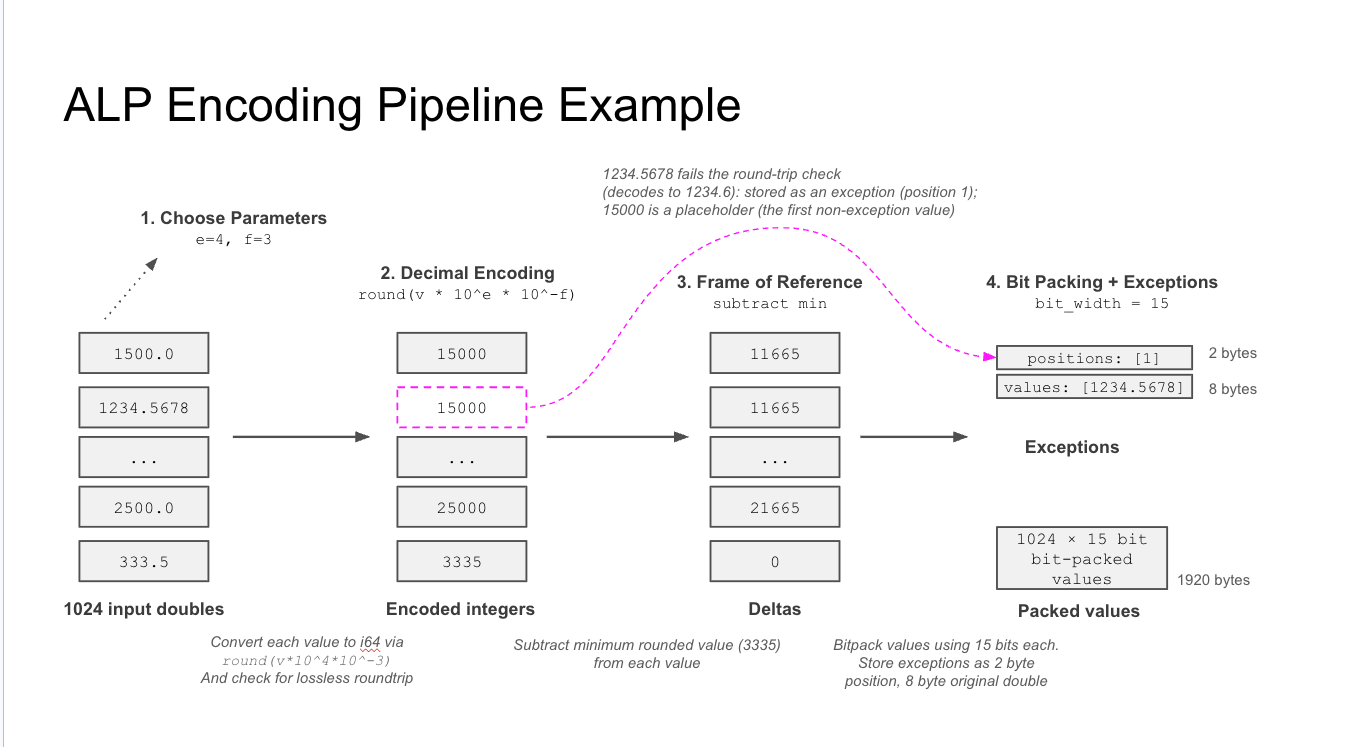
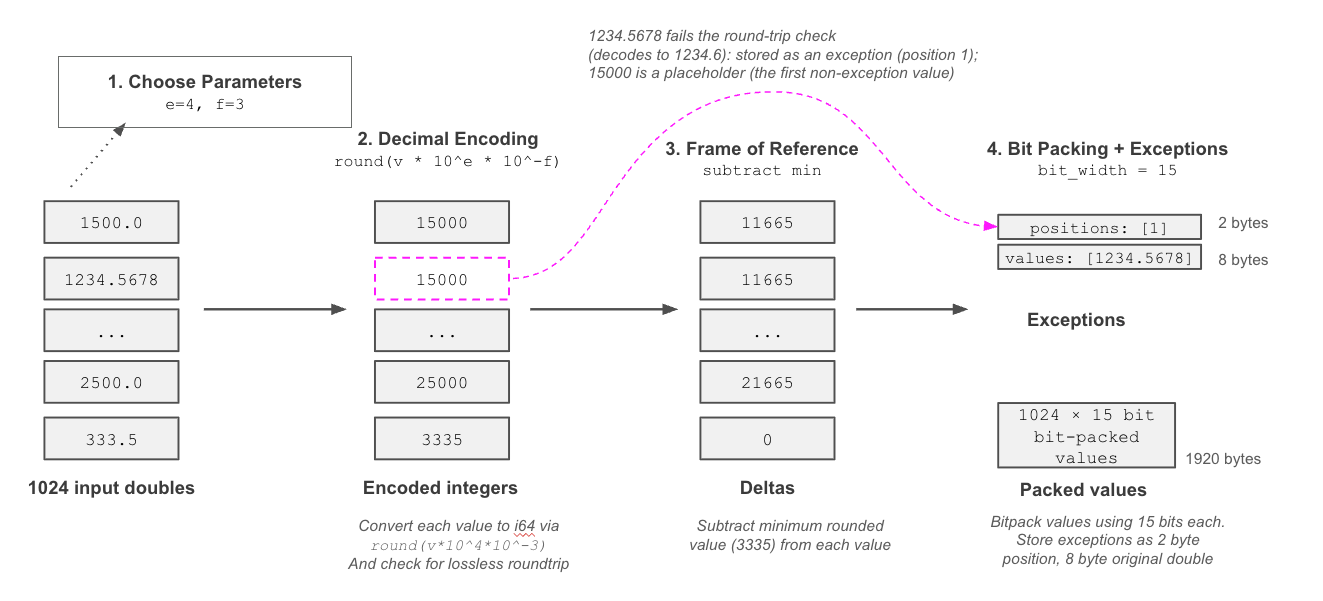
Add more encoding/decoding diagrams

diff --git a/content/en/blog/features/alp_encoding.md b/content/en/blog/features/alp_encoding.md
@@ -1,5 +1,5 @@
 ---
-title: "ALP lightweight floating-point encoding in Apache Parquet"
+title: "ALP: Adaptive Light-weight Floating-point Encoding in Apache Parquet"
 date: 2026-08-14
 description: "Fast, random access, GPU and SIMD-friendly compression and decompression; similar in size to ZSTD"
 author: "[Kosta Tarasov](https://github.com/sdf-jkl), [Andrew Lamb](https://github.com/alamb)"
@@ -298,42 +298,20 @@ The way that ALP encodes data is:
 
 <!-- needs some prose -->
 
+<!-- Diagrams source: https://docs.google.com/presentation/d/1NeYAGKV2wZZMSme5rVgUGGMkfOTEnxw8oCDxid5UouM --> 
 ![ALP encoding pipeline steps](/blog/alp/alp_encoding_pipeline.png)
 
+<!-- Diagrams source: https://docs.google.com/presentation/d/1NeYAGKV2wZZMSme5rVgUGGMkfOTEnxw8oCDxid5UouM --> 
 ![ALP encoding pipeline example](/blog/alp/alp_encoding_example.png)
 
 ### ALP Decoding pipeline in Parquet
 
-<!-- Andrew's chart :rocket: -->
+<!-- Diagrams source: https://docs.google.com/presentation/d/1NeYAGKV2wZZMSme5rVgUGGMkfOTEnxw8oCDxid5UouM --> 
+![ALP decoding pipeline steps](/blog/alp/alp_decoding_pipeline.png)
 
-                    Input: Serialized vector bytes
-                              |
-                              v
-    +----------------------------------------------------------+
-    |  1. BIT UNPACKING                                        |
-    |     Unpack num_elements values at bit_width bits each    |
-    +----------------------------------------------------------+
-                              |
-                              v
-    +----------------------------------------------------------+
-    |  2. REVERSE FOR                                          |
-    |     encoded[i] = delta[i] + frame_of_reference           |
-    +----------------------------------------------------------+
-                              |
-                              v
-    +----------------------------------------------------------+
-    |  3. DECIMAL DECODING                                     |
-    |     value[i] = encoded[i] * 10^factor * 10^(-exponent)   |
-    +----------------------------------------------------------+
-                              |
-                              v
-    +----------------------------------------------------------+
-    |  4. PATCH EXCEPTIONS                                     |
-    |     value[pos[j]] = exception_values[j]                  |
-    +----------------------------------------------------------+
-                              |
-                              v
-                  Output: Original float/double array
+<!-- Diagrams source: https://docs.google.com/presentation/d/1NeYAGKV2wZZMSme5rVgUGGMkfOTEnxw8oCDxid5UouM --> 
+![ALP decoding pipeline example](/blog/alp/alp_decoding_example.png)
+
 
 To decode we go through mostly the same steps, but in reverse:
 
